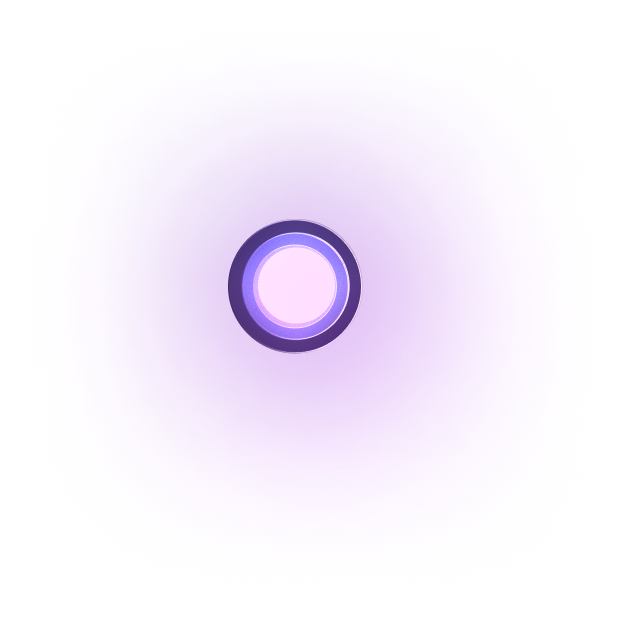
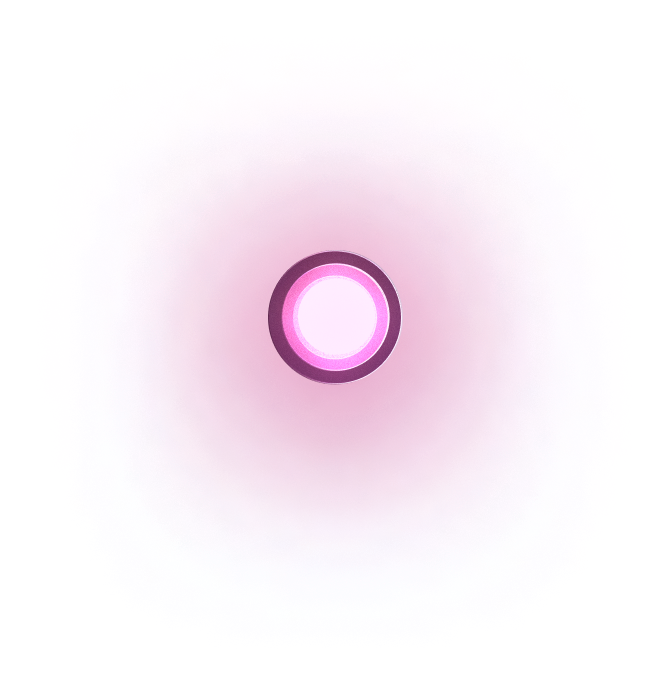
fixed circles positions

Changed region(s): [[0.3376, 0.3382, 0.6753, 0.6764]]

diff --git a/src/app/components/primitives/pr-title-w-list/pr-title-w-list.component.html b/src/app/components/primitives/pr-title-w-list/pr-title-w-list.component.html
@@ -1,13 +1,13 @@
 <h3 class="title-h2">
-    {{content.count}}
-    <br>
-    {{content.title}}
+  {{ content.count }}
+  <br />
+  {{ content.title }}
 </h3>
-<div class="circle">
-    <img [attr.src]="'assets/roadmap/' + index + '.png'" alt="circle">
+<div class="circle" [ngClass]="[index % 2 ? 'odd' :  'even', index ===3? 'last': '']">
+  <img [attr.src]="'assets/roadmap/' + index + '.png'" alt="circle" />
 </div>
 <ul>
-    <li *ngFor="let listItem of content.listItems" class="text-t3">
-        {{listItem}}
-    </li>
+  <li *ngFor="let listItem of content.listItems" class="text-t3">
+    {{ listItem }}
+  </li>
 </ul>

diff --git a/src/app/components/primitives/pr-title-w-list/pr-title-w-list.component.scss b/src/app/components/primitives/pr-title-w-list/pr-title-w-list.component.scss
@@ -28,6 +28,23 @@
     }
 
     >.circle {
-        @include position(absolute, 0, 0, 0, 0);
+
+        @include position(absolute, unset, unset, unset, unset);
+        z-index: -1;
+
+        &.even {
+            top: -18%;
+            left: 36%;
+        }
+
+        &.odd {
+            top: -27%;
+            left: -96%;
+        }
+
+        &.last{
+            top: -29%;
+            left: -108%
+        }
     }
 }

diff --git a/src/app/components/sections/road-map/road-map.component.html b/src/app/components/sections/road-map/road-map.component.html
@@ -6,6 +6,6 @@
   <app-pr-title-w-list
     *ngFor="let roadMapUnit of roadMapContent;let i = index"
     [content]="roadMapUnit"
-    [index]="i + 1"
+    [index]="i"
   ></app-pr-title-w-list>
 </div>

diff --git a/src/app/components/primitives/brand-card/brand-card.component.scss b/src/app/components/primitives/brand-card/brand-card.component.scss
@@ -11,7 +11,6 @@
     &:hover {
         >.illustration>.image>.abstraction {
             transform: scale(1.1);
-            // animation: abstraction-scale 1s ease-in forwards;
         }
     }
 
